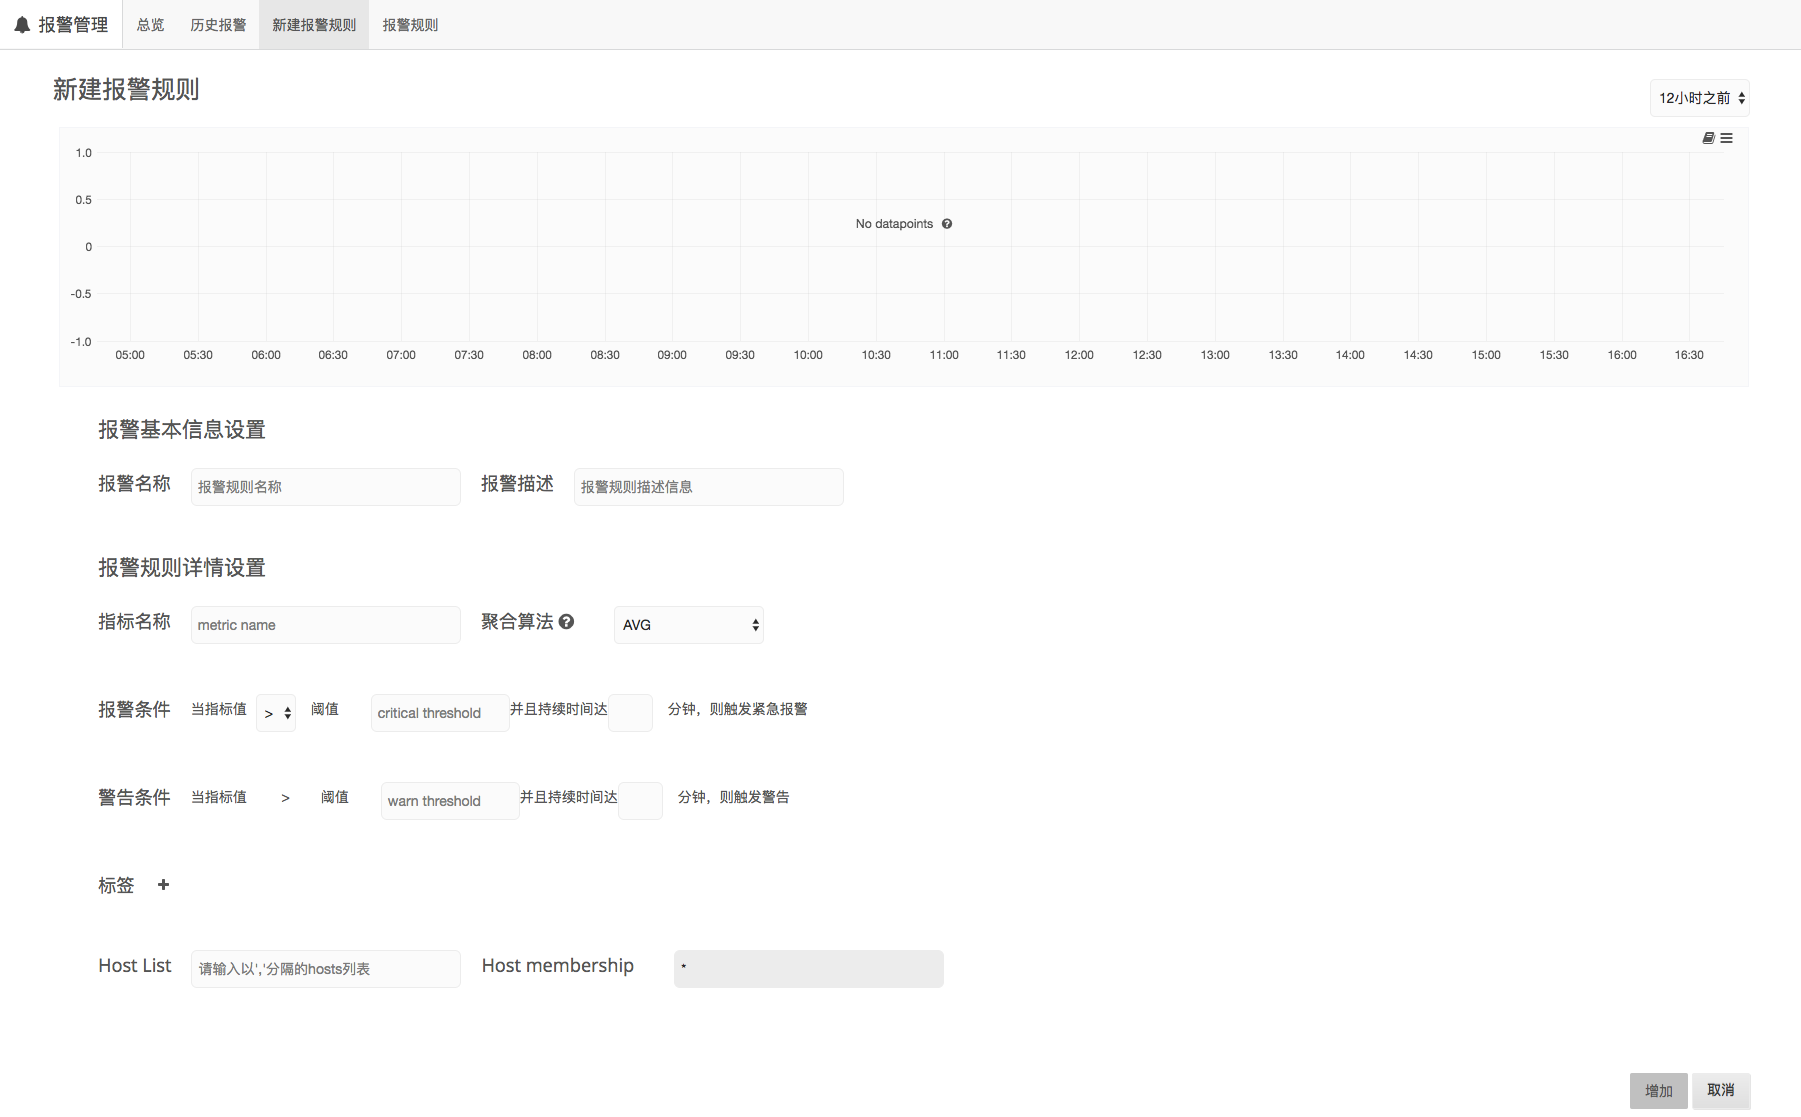
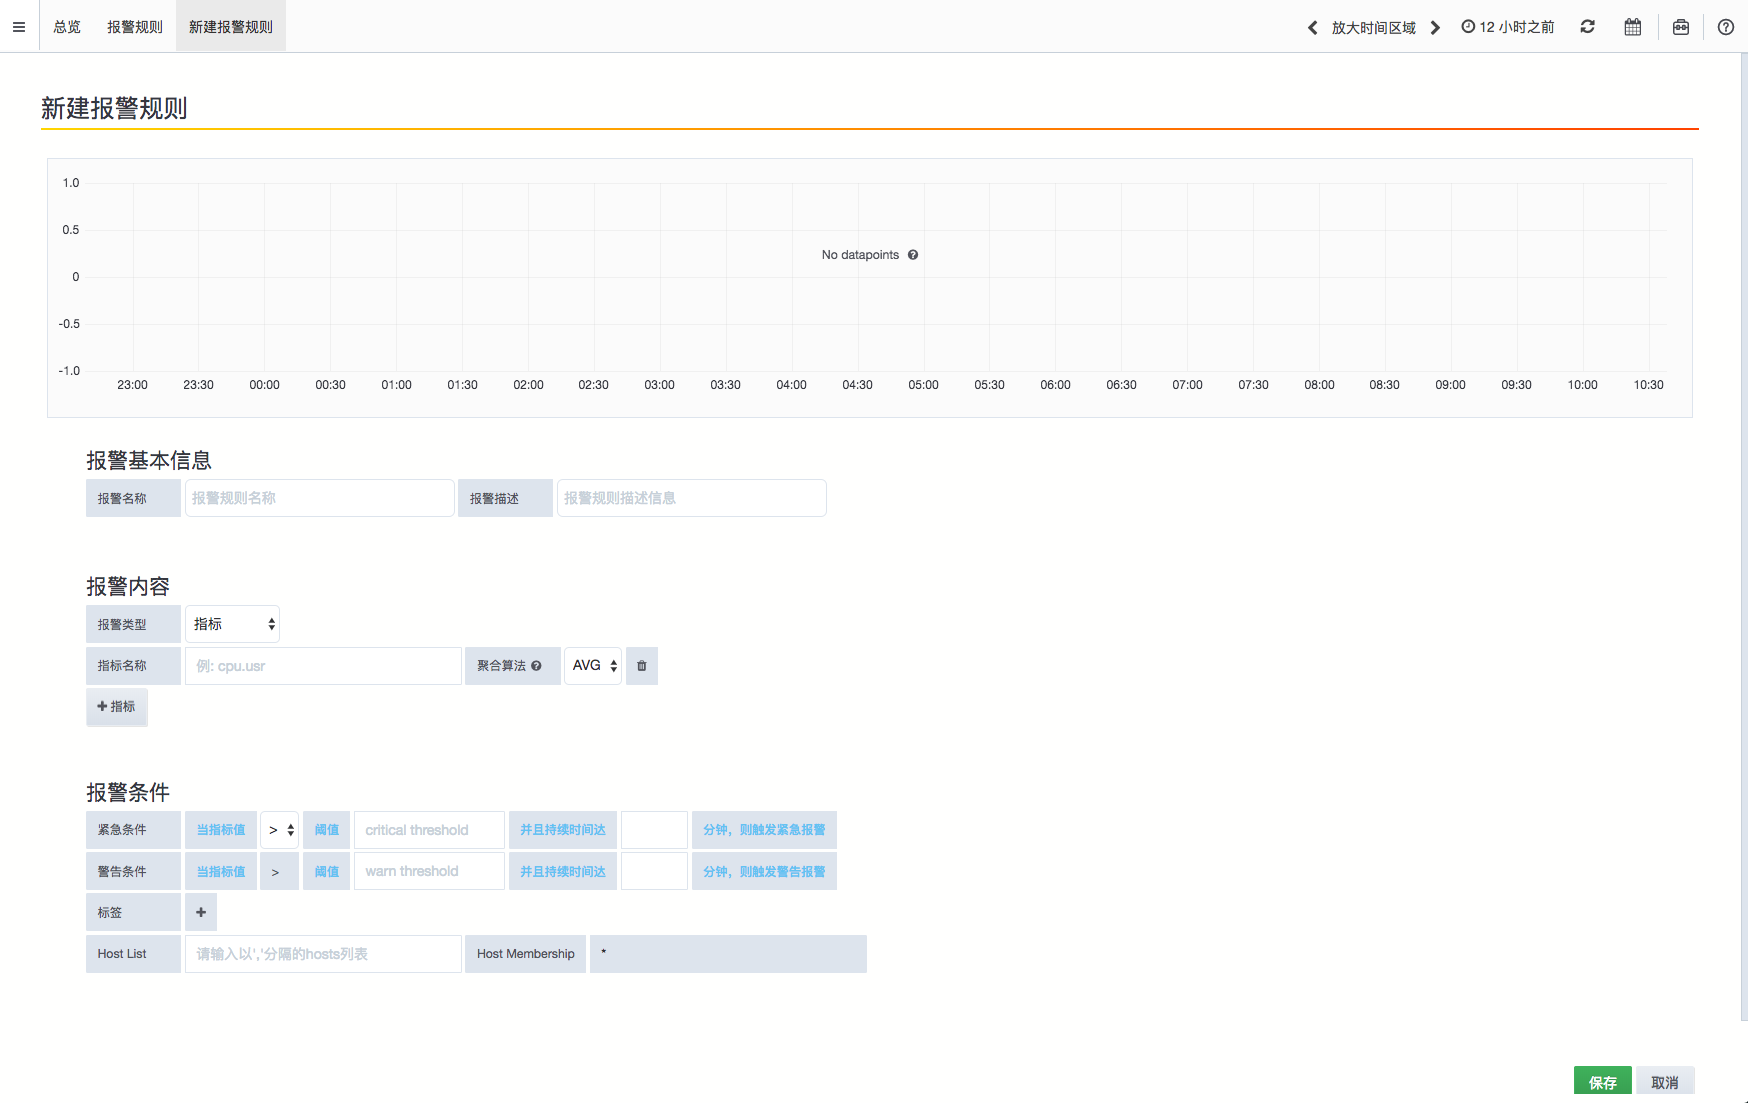
alert

diff --git a/part4/alert_and_association/alert_and_association.md b/part4/alert_and_association/alert_and_association.md
@@ -14,23 +14,61 @@
 
 ## 3.新建报警规则
 
-用户点击“智能检测>>报警规则检测”,可选择相应的选项进行选择查看。点击“新建规则”则开始创建报警规则。以下为新建报警规则的菜单详情：
+用户点击“实时报警>>规则报警”,可选择相应的选项进行选择查看。点击“新建报警规则”则开始创建报警规则。以下为新建报警规则的菜单详情：
 
-![](/part4/images/p4_14.png)
+### 单指标报警
+![](/part4/images/p4_34.png)
 
-* **报警名称**:未设置过的报警名称。
-* **报警描述**:该报警规则的描述信息。
-* **指标名称**: 指标名称。是个下拉式菜单。还有根据前缀过滤指标的功能。
-* **聚合算法**:AVG, SUM,等等
+* **报警名称**: 未设置过的报警名称。
+* **报警描述**: 该报警规则的描述信息。
+* **报警类型**: 可选择“指标报警”或“日志报警”。
+* **指标报警**: 包括单指标和多指标报警
+  * **指标名称**: 指标名称。是个下拉式菜单。还有根据前缀过滤指标的功能。
+  * **聚合算法**: AVG, SUM,等等
 * **报警条件**\(CRTICAL\)
-  * **阈值**:严重报警的最低值。
-  * **持续时间**:指标必须持续高于阈值多少时间才开始报警。
+  * **阈值**: 严重报警的极值。
+  * **持续时间**: 指标必须持续高于(低于)阈值多少时间才开始报警。
 * **警告条件**\(WARNING\)
-  * **阈值**:警告报警的最低值。
-  * **持续时间**:指标必须持续高于阈值多少时间才开始报警。
-* **Host list**:报警的机器具体名字,若要指定多台机器,请用逗号隔开
+  * **阈值**: 警告报警极值。
+  * **持续时间**: 指标必须持续高于(低于)阈值多少时间才开始报警。
+* **Host list**: 报警的机器具体名字,若要指定多台机器,请用逗号隔开
 * **Host membership**: 报警的机器的名字正则表达式。一般用“\*”代表所有的机器。
-* **监控范围**:目前只支持“HOST”, 代表每台机器上的指标都可以出现告警。比如同一个指标 response\_time,如果在 host1 上超过阈值,而在 host2 没出现 阈值,则 host1 就出现告警,host2 没有。与之对应的是“CLUSTERWIDE”, 代表所有机器只支持一个告警。比如 response\_time 在所有的机器上的预聚合 值\(比如 AVG\)超过阈值才告警。仅仅 host1 的值超过阈值还不满足告警条件。
+
+### 多指标报警
+![](/part4/images/p4_35.png)
+* **报警名称**: 未设置过的报警名称。
+* **报警描述**: 该报警规则的描述信息。
+* **报警类型**: 可选择“指标报警”或“日志报警”。
+* **指标报警**: 包括单指标和多指标报警
+  * **指标名称**: 指标名称。是个下拉式菜单。还有根据前缀过滤指标的功能。
+  * **聚合算法**: AVG, SUM等等
+  * **计算上述指标值**: 多个指标的计算规则，支持加减乘除运算。例：a+b。
+* **报警条件**\(CRTICAL\)
+  * **阈值**: 严重报警的极值。
+  * **持续时间**: 指标必须持续高于(低于)阈值多少时间才开始报警。
+* **警告条件**\(WARNING\)
+  * **阈值**: 警告报警极值。
+  * **持续时间**: 指标必须持续高于(低于)阈值多少时间才开始报警。
+* **Host list**: 报警的机器具体名字,若要指定多台机器,请用逗号隔开
+* **Host membership**: 报警的机器的名字正则表达式。一般用“\*”代表所有的机器。
+
+### 日志报警
+![](/part4/images/p4_36.png)
+* **报警名称**: 未设置过的报警名称。
+* **报警描述**: 该报警规则的描述信息。
+* **报警类型**: 可选择“指标报警”或“日志报警”。
+* **日志报警**: 指定日志在阈值时间内出现次数
+  * **日志类型**: 对应日志分析功能中的“type”，例如：nginx/docker/mysql等。
+  * **关系查询**: AND, OR, NOT
+  * **关键词类型**: HOST/MESSAGE。可查询指定 host 或指定日志内容。
+  * **预览日志查询条件**: 当选择完日志报警内容，可以预览到该报警的查询语句。
+  * **预览**: 点击预览，可以查看到某段时间内的日志条数查询结果。
+* **报警条件**\(CRTICAL\)
+  * **阈值**: 严重报警的极值。
+  * **持续时间**: 指标必须持续高于(低于)阈值多少时间才开始报警。
+* **警告条件**\(WARNING\)
+  * **阈值**: 警告报警极值。
+  * **持续时间**: 指标必须持续高于(低于)阈值多少时间才开始报警。
 
 ## 4.**报警规则列表／删除报警规则**
 
@@ -52,9 +90,9 @@
 
 ![](/part4/images/p4_17.png)
 
-* **调整阈值**:是个滑动栏。它定义了指标相似度的大小。默认的值是 100。用户可以移动滑动栏来调整相似度的阈值。
+* **调整阈值**: 是个滑动栏。它定义了指标相似度的大小。默认的值是 100。用户可以移动滑动栏来调整相似度的阈值。
 
-* **过滤结果**:调整相似度阈值以后,点击这里就可以过滤掉与出问题的指标的 相似值大于阈值的指标。剩下的指标被认为是与出问题的指标相似。它们会 显示在图二十一的下部分。比如图中出问题的指标是 「net.stat.tcp.retransmit」, 相似值阈值为 100,则有 proc.meminfo.dirty, proc.net.packets.out, nginx.active_connections 等多个指标与其关联。
+* **过滤结果**: 调整相似度阈值以后,点击这里就可以过滤掉与出问题的指标的 相似值大于阈值的指标。剩下的指标被认为是与出问题的指标相似。它们会 显示在图二十一的下部分。比如图中出问题的指标是 「net.stat.tcp.retransmit」, 相似值阈值为 100,则有 proc.meminfo.dirty, proc.net.packets.out, nginx.active_connections 等多个指标与其关联。
 
 * **选择具体指标进行对比**:每个指标前面都有一个选择框。用户可以任选 指标在图上进行对比。
 
